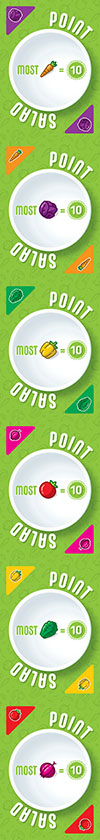
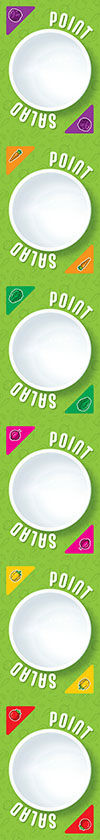
init scoring

diff --git a/pointsalad.js b/pointsalad.js
@@ -90,6 +90,45 @@ var TableCenter = /** @class */ (function () {
     }
     return TableCenter;
 }());
+var CARDS_EFFECTS = [
+    [],
+    // VEGGIE 1
+    [
+        null,
+        // special
+        '5 / missing veggie type',
+        // odd/even
+        'odd/even 7/3',
+        // most
+        'most 10',
+        // least
+        'least 10',
+        // 2/V
+        '2/carrot',
+        // 1/V 1/V (x3)
+        '1/carrot 1/pepper',
+        '1/carrot 1/lettuce',
+        '1/carrot 1/onion',
+        // 3/V -2/V
+        '3/carrot -2/onion',
+        // 2/V 1/V -2/V
+        '2/carrot 1/pepper -2/onion',
+        // 2/V 2/V -4/V
+        '2/carrot 2/onion -4/pepper',
+        // 3/V -1/V -1/V
+        '3/carrot -1/pepper -1/cabbage',
+        // 4/V -2/V -2/V
+        '4/carrot -2/lettuce -2/tomato',
+        // V+V = 5 (x3)
+        'CARROT, CARROT = 5',
+        'LETTUCE, ONION = 5',
+        'TOMATO, PEPPER = 5',
+        // V+V+V = 8 (x3)
+        'CARROT, CARROT, CARROT = 8',
+        'CABBAGE, CARROT, TOMATO = 8',
+        'LETTUCE, CARROT, ONION = 8',
+    ],
+];
 var __spreadArray = (this && this.__spreadArray) || function (to, from, pack) {
     if (pack || arguments.length === 2) for (var i = 0, l = from.length, ar; i < l; i++) {
         if (ar || !(i in from)) {
@@ -243,10 +282,14 @@ var PointSalad = /** @class */ (function () {
     };
     PointSalad.prototype.createOrMoveCard = function (card, destinationId, init) {
         var _this = this;
+        var _a;
         if (init === void 0) { init = false; }
         var existingDiv = document.getElementById("card-".concat(card.id));
         if (existingDiv) {
             existingDiv.dataset.side = '' + card.side;
+            if (card.side === 1) {
+                existingDiv.innerHTML = '';
+            }
             if (init) {
                 document.getElementById(destinationId).appendChild(existingDiv);
             }
@@ -263,6 +306,9 @@ var PointSalad = /** @class */ (function () {
             div.dataset.index = '' + card.index;
             document.getElementById(destinationId).appendChild(div);
             div.addEventListener('click', function () { return _this.onCardClick(card); });
+            if (card.side === 0) {
+                div.innerHTML = "<span>".concat(((_a = CARDS_EFFECTS[card.veggie]) === null || _a === void 0 ? void 0 : _a[card.index]) || '', "</span>");
+            }
         }
     };
     PointSalad.prototype.updateVeggieCount = function (playerId, veggieCounts) {

diff --git a/src/cards.ts b/src/cards.ts
@@ -1,0 +1,42 @@
+
+
+const CARDS_EFFECTS = [ // TODO
+    [],
+    // VEGGIE 1
+    [
+        null,
+        // special
+        '5 / missing veggie type',
+        // odd/even
+        'odd/even 7/3',
+        // most
+        'most 10',
+        // least
+        'least 10',
+        // 2/V
+        '2/carrot',
+        // 1/V 1/V (x3)
+        '1/carrot 1/pepper',
+        '1/carrot 1/lettuce',
+        '1/carrot 1/onion',
+        // 3/V -2/V
+        '3/carrot -2/onion',
+        // 2/V 1/V -2/V
+        '2/carrot 1/pepper -2/onion',
+        // 2/V 2/V -4/V
+        '2/carrot 2/onion -4/pepper',
+        // 3/V -1/V -1/V
+        '3/carrot -1/pepper -1/cabbage',
+        // 4/V -2/V -2/V
+        '4/carrot -2/lettuce -2/tomato',
+        // V+V = 5 (x3)
+        'CARROT, CARROT = 5',
+        'LETTUCE, ONION = 5',
+        'TOMATO, PEPPER = 5',
+        // V+V+V = 8 (x3)
+        'CARROT, CARROT, CARROT = 8',
+        'CABBAGE, CARROT, TOMATO = 8',
+        'LETTUCE, CARROT, ONION = 8',
+    ],
+];
+  

diff --git a/src/pointsalad.ts b/src/pointsalad.ts
@@ -193,6 +193,9 @@ class PointSalad implements PointSaladGame {
         const existingDiv = document.getElementById(`card-${card.id}`);
         if (existingDiv) {
             existingDiv.dataset.side = ''+card.side;
+            if (card.side === 1) {
+                existingDiv.innerHTML = '';
+            }
             if (init) {
                 document.getElementById(destinationId).appendChild(existingDiv);
             } else {
@@ -207,6 +210,9 @@ class PointSalad implements PointSaladGame {
             div.dataset.index = ''+card.index;
             document.getElementById(destinationId).appendChild(div);
             div.addEventListener('click', () => this.onCardClick(card));
+            if (card.side === 0) {
+                div.innerHTML = `<span>${CARDS_EFFECTS[card.veggie]?.[card.index] || ''}</span>`;
+            }
         }
     }
 

diff --git a/src/_cards.scss b/src/_cards.scss
@@ -4,6 +4,9 @@
     width: 100px;
     height: 140px;
     margin: 5px;
+    display: flex;
+    justify-content: center;
+    align-items: center;
 
     &[data-side="0"] {
         background-image: url('img/point-side.jpg');

diff --git a/pointsalad.css b/pointsalad.css
@@ -24,6 +24,9 @@
   width: 100px;
   height: 140px;
   margin: 5px;
+  display: flex;
+  justify-content: center;
+  align-items: center;
 }
 .card[data-side="0"] {
   background-image: url("img/point-side.jpg");

diff --git a/material.inc.php b/material.inc.php
@@ -19,19 +19,118 @@
  *
  */
 
+if (!function_exists('evenOdd')) {
 
-/*
+  function evenOdd(array $veggieCounts, int $veggie) {
+    return $veggieCounts[$veggie] % 2 === 0 ? 7 : 3;
+  }
 
-Example:
+  function set(array $veggieCounts, array $veggies, int $points) {
+    if (count($veggies) === 1) {
+      return $veggieCounts[$veggies[0]] * $points;
+    } else if (count($veggies) === 2) {
+      if ($veggies[0] === $veggies[1]) {
+        return floor($veggieCounts[$veggies[0]] / 2) * $points;
+      } else {
+        return min($veggieCounts[$veggies[0]], $veggieCounts[$veggies[1]]) * $points;
+      }
+    } else if (count($veggies) === 3) {
+      if ($veggies[0] === $veggies[1]) {
+        return floor($veggieCounts[$veggies[0]] / 3) * $points;
+      } else {
+        return min($veggieCounts[$veggies[0]], $veggieCounts[$veggies[1]], $veggieCounts[$veggies[2]]) * $points;
+      }
+    } else if (count($veggies) === 6) {
+      return min($veggieCounts[$veggies[0]], $veggieCounts[$veggies[1]], $veggieCounts[$veggies[2]], $veggieCounts[$veggies[3]], $veggieCounts[$veggies[4]], $veggieCounts[$veggies[5]]) * $points;
+    }
+    throw new BgaVisibleSystemException('Invalid veggies count: ' . count($veggies));
+  }
 
-$this->card_types = array(
-    1 => array( "card_name" => ...,
-                ...
-              )
-);
+  function most(array $veggieCounts, int $veggie, array $otherPlayersVeggieCounts) {
+    $playerCount = $veggieCounts[$veggie];
 
-*/
+    foreach ($otherPlayersVeggieCounts as $otherPlayerVeggieCounts) {
+      if ($otherPlayerVeggieCounts[$veggie] > $playerCount) {
+        return 0;
+      }
+    }
 
+    return 10;
+  }
 
+  function least(array $veggieCounts, int $veggie, array $otherPlayersVeggieCounts) {
+    $playerCount = $veggieCounts[$veggie];
 
+    foreach ($otherPlayersVeggieCounts as $otherPlayerVeggieCounts) {
+      if ($otherPlayerVeggieCounts[$veggie] < $playerCount) {
+        return 0;
+      }
+    }
 
+    return 10;
+  }
+
+  function missing(array $veggieCounts) {
+    $missing = 0;
+    for ($i=1; $i<=6; $i++) {
+      if ($veggieCounts[$i] === 0) {
+        $missing++;
+      }
+    }
+    return 5 * $missing;
+  }
+
+}
+
+$this->CARDS_EFFECTS = [
+  
+  1 => [
+    // special
+    1 => fn($veggieCounts) => missing($veggieCounts),
+    // odd/even
+    2 => fn($veggieCounts) => evenOdd($veggieCounts, CARROT),
+    // most
+    3 => fn($veggieCounts, $otherPlayersVeggieCounts) => most($veggieCounts, CARROT, $otherPlayersVeggieCounts),
+    // least
+    4 => fn($veggieCounts, $otherPlayersVeggieCounts) => least($veggieCounts, CARROT, $otherPlayersVeggieCounts),
+    // 2/V
+    5 => fn($veggieCounts) => set($veggieCounts, [CARROT], 2),
+    // 1/V 1/V (x3)
+    6 => fn($veggieCounts) => set($veggieCounts, [CARROT], 1) + set($veggieCounts, [PEPPER], 1),
+    7 => fn($veggieCounts) => set($veggieCounts, [CARROT], 1) + set($veggieCounts, [LETTUCE], 1),
+    // 3/V -2/V
+    8 => fn($veggieCounts) => set($veggieCounts, [CARROT], 3) + set($veggieCounts, [ONION], -2),
+    // 2/V 1/V -2/V
+    9 => fn($veggieCounts) => set($veggieCounts, [CARROT], 2) + set($veggieCounts, [PEPPER], 1) + set($veggieCounts, [CABBAGE], -2),
+    // 2/V 2/V -4/V
+    10 => fn($veggieCounts) => set($veggieCounts, [CARROT], 2) + set($veggieCounts, [ONION], 2) + set($veggieCounts, [PEPPER], -4),
+    // 3/V -1/V -1/V
+    11 => fn($veggieCounts) => set($veggieCounts, [CARROT], 3) + set($veggieCounts, [PEPPER], -1) + set($veggieCounts, [CABBAGE], -1),
+    // 4/V -2/V -2/V
+    12 => fn($veggieCounts) => set($veggieCounts, [CARROT], 4) + set($veggieCounts, [LETTUCE], -2) + set($veggieCounts, [TOMATO], -2),
+    // V+V = 5 (x3)
+    13 => fn($veggieCounts) => set($veggieCounts, [CARROT, CARROT], 5),
+    14 => fn($veggieCounts) => set($veggieCounts, [LETTUCE, ONION], 5),
+    15 => fn($veggieCounts) => set($veggieCounts, [TOMATO, PEPPER], 5),
+    // V+V+V = 8 (x3)
+    16 => fn($veggieCounts) => set($veggieCounts, [CARROT, CARROT, CARROT], 8),
+    17 => fn($veggieCounts) => set($veggieCounts, [CABBAGE, CARROT, TOMATO], 8),
+    18 => fn($veggieCounts) => set($veggieCounts, [LETTUCE, CARROT, ONION], 8),
+  ],
+
+  2 => [
+
+  ],
+  3 => [
+
+  ],
+  4 => [
+
+  ],
+  5 => [
+
+  ],
+  6 => [
+
+  ],
+];

diff --git a/modules/php/utils.php b/modules/php/utils.php
@@ -145,7 +145,17 @@ trait UtilTrait {
     }
 
     function getScore(int $playerId, Card $scoreCard, array $veggieCounts) {
-        return 0; // TODO
+        $fn = $this->CARDS_EFFECTS[$scoreCard->veggie][$scoreCard->index];
+        $otherPlayersVeggieCounts = [];
+        if ($scoreCard->index == 3 || $scoreCard->index == 4) {
+            $otherPlayersIds = $this->getPlayersIds();
+            foreach ($otherPlayersIds as $otherPlayerId) {
+                if ($otherPlayerId != $playerId) {
+                    $otherPlayersVeggieCounts[$otherPlayerId] = $this->getVeggieCountsByPlayer($otherPlayerId);
+                }
+            }
+        }
+        return $fn($veggieCounts, $otherPlayersVeggieCounts);
     }
 
     function updateScore(int $playerId) {

diff --git a/modules/php/debug-util.php b/modules/php/debug-util.php
@@ -11,12 +11,16 @@ trait DebugUtilTrait {
             return;
         } 
 
+        $this->cards->pickCardsForLocation(3, 'veggie1', 'player', 2343492);
+
         //$cards = $this->getCardsFromDb($this->cards->pickCardsForLocation(9, 'pile1', 'player', 2343492));
 
         /*for ($i=0; $i<7; $i++) {
             $this->applyFlipCard(0, $cards[$i]);
         }*/
         //$this->insertSomeRoutes(2343492);
+        
+        $this->gamestate->changeActivePlayer(2343492);
     }
 
     function debug($debugData) {
